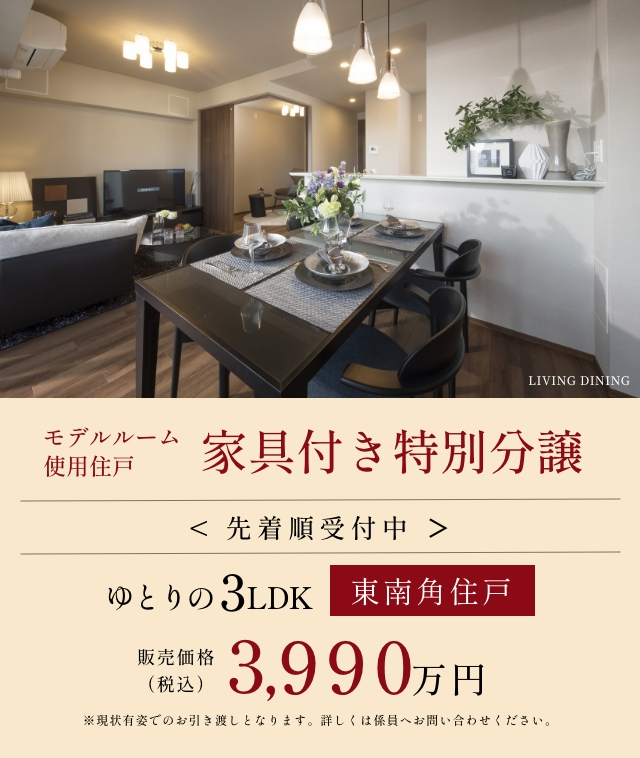
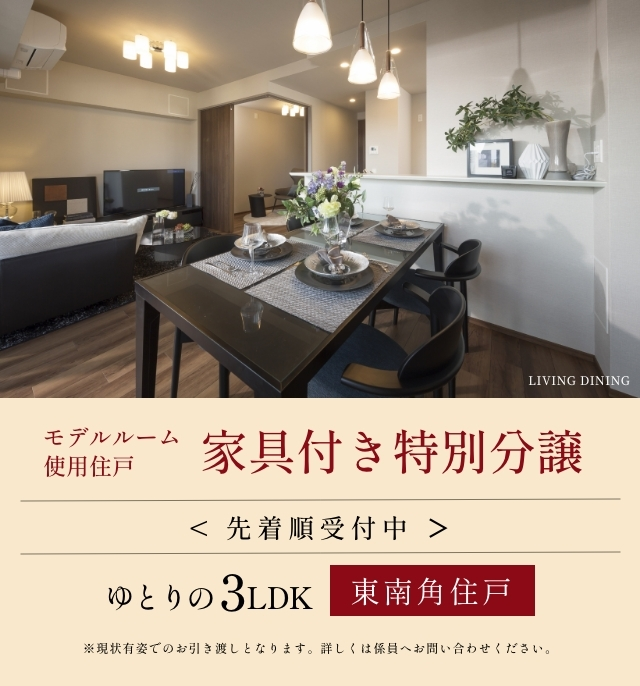
no message

diff --git a/htmlmail/231020/member.html b/htmlmail/231020/member.html
@@ -357,7 +357,7 @@ table { width: 100%; margin: 0; padding: 0; border: none; }
                 <td class="main"><img src="https://www.cielia.com/m/himeji43/htmlmail/231020/img/main.jpg" alt=""></td>
             </tr>
             <tr>
-                <td class="title">3LDK・東南角住戸 <span>3,990</span>万円<br>モデルルーム使用住戸につき、<br>＼家具付き特別分譲／</td>
+                <td class="title">3LDK・東南角住戸<br>モデルルーム使用住戸につき、<br>＼家具付き特別分譲／</td>
             </tr>
             <tr>
                 <td class="txt"><span class="center">この度は、「シエリア姫路城 東」に<br>ご関心いただきまして、誠にありがとうございます。<br><br>
